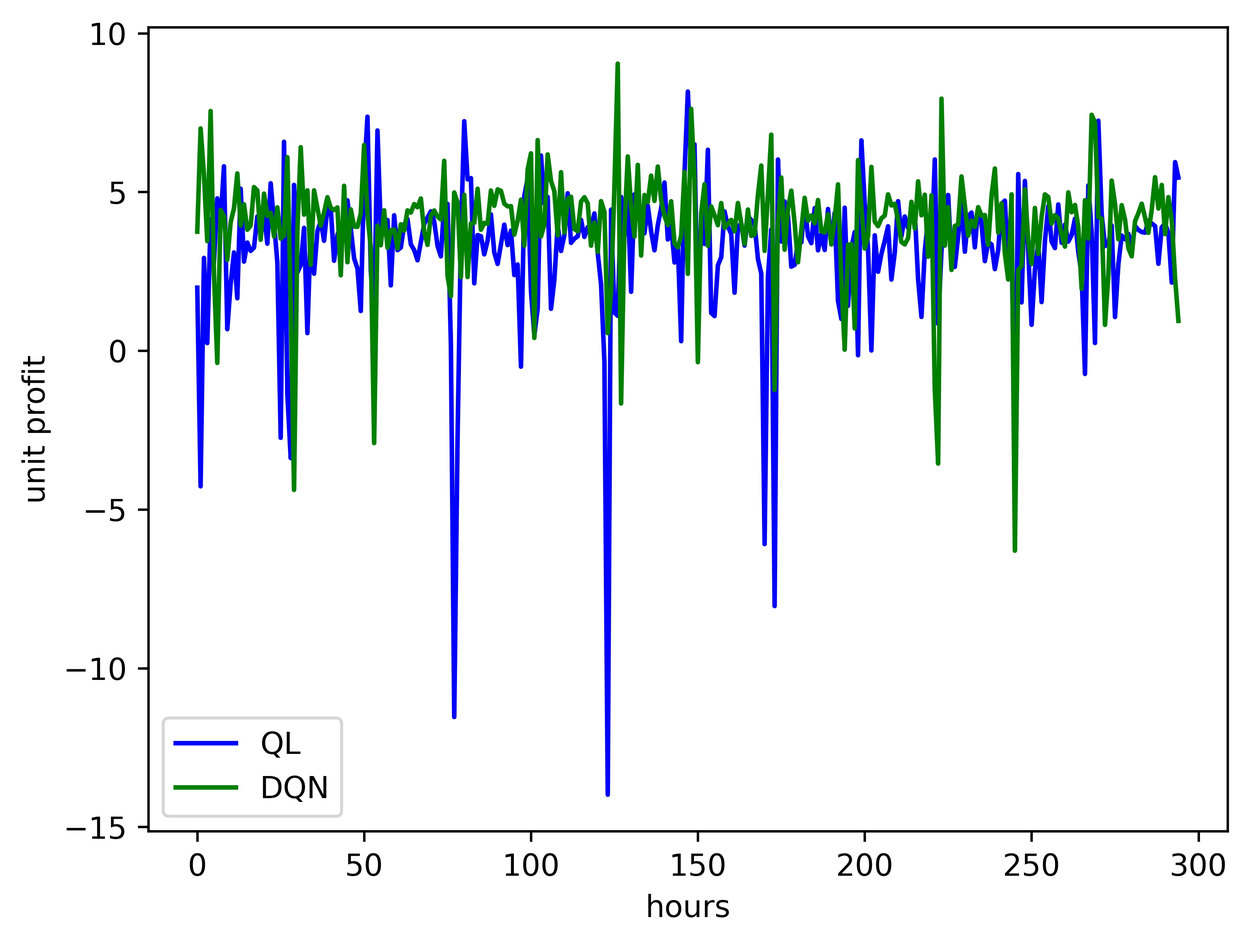
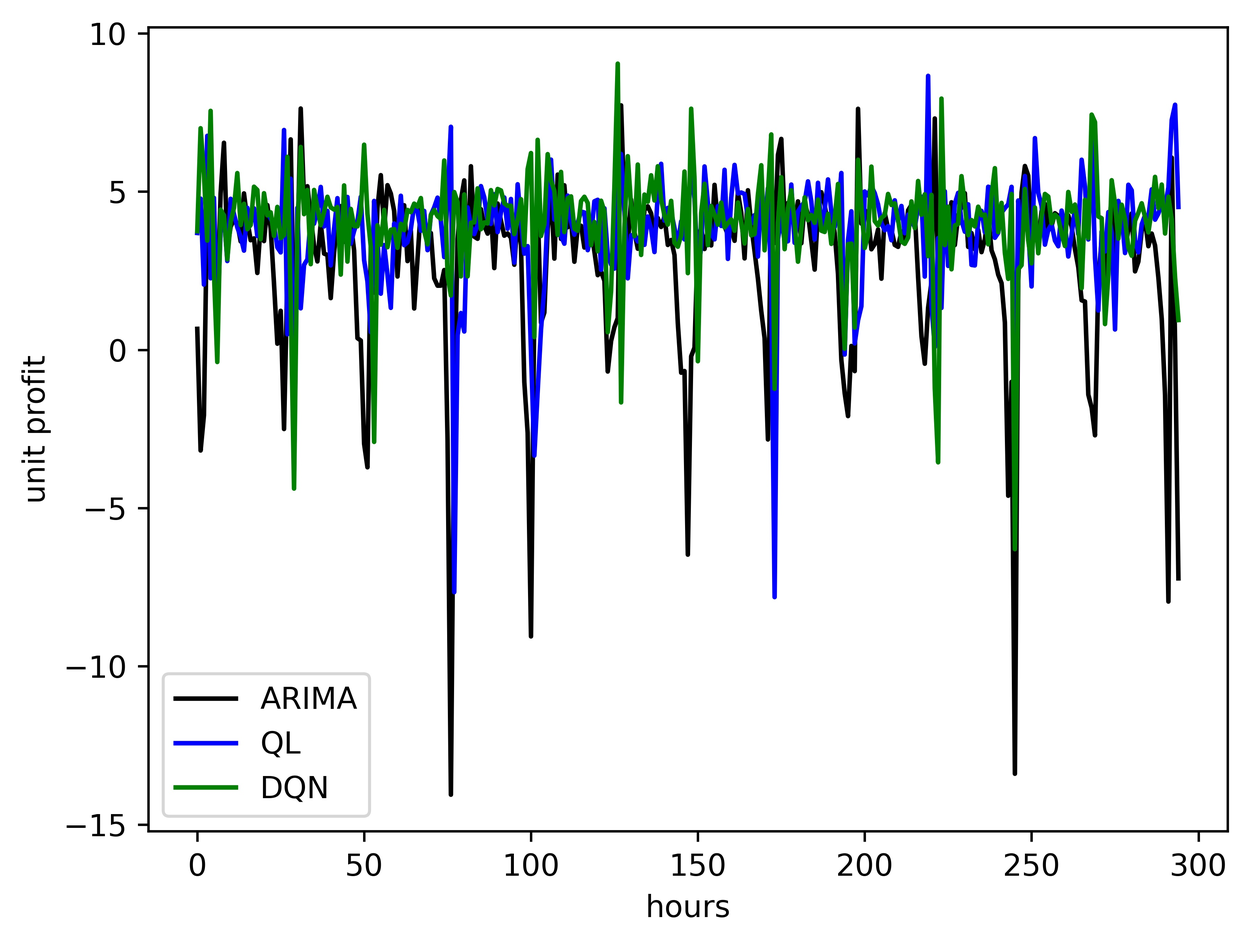
123456

diff --git a/RL.py b/RL.py
@@ -1,4 +1,5 @@
 from keras.layers import Flatten, Dense, Activation
+from statsmodels.tsa.arima_model import ARIMA
 from keras.models import Sequential
 from math import log2
 from time import time
@@ -36,7 +37,8 @@ def cal_profit(users, action):
 		return tasks
 
 	def iterative(tasks):
-		B=0.1+action*0.3
+		#B=0.1+action*0.3
+		B=action
 
 		xi=list()
 		b=[0]*users
@@ -92,8 +94,8 @@ def cal_profit(users, action):
 	revenue=users*QoS*4
 
 	#profit
-	return revenue-zeta*(0.1+action*0.3)/1.3
-
+	#return revenue-zeta*(0.1+action*0.3)/1.3
+	return revenue-zeta*action/1.3
 
 #DRL
 def DQL():
@@ -240,12 +242,13 @@ def QL():
 			if best==0:
 				action=np.random.randint(5)
 
-			for e in range(num):
-				perform+=cal_profit(traffic[i+1], action)/traffic[i+1]/num
-			#profit.append(cal_profit(traffic[i+1], action)/traffic[i+1])
+			#for e in range(num):
+			#	perform+=cal_profit(traffic[i+1], action)/traffic[i+1]/num
+			profit.append(cal_profit(traffic[i+1], action)/traffic[i+1])
 
 		#return sum(profit)
-		return perform/len(traffic)
+		#return perform/len(traffic)
+		return profit
 
 
 	def main():
@@ -254,13 +257,12 @@ def QL():
 
 		x, result=list(), list()
 
-		while episode<1000:
+		while episode<1750:
 			play(episode)
 			#test revenue
 			#if episode%5==0 or episode<30:
 			#	x.append(episode)
 			#	result.append(exam())
-			print(episode)
 			episode+=1
 
 		print(exam())
@@ -276,7 +278,15 @@ def QL():
 
 	main()
 
-#QL()
+history=8
+#def ARIMA():
+'''profit=list()
+model=ARIMA(traffic, order=(history, 0, 0))
+model=model.fit(disp=-1)
+for i in range(history, len(traffic)-1):
+	action=model.predict(start=i, end=i)[0]*2.3/63
+	profit.append(cal_profit(traffic[i+1], action)/traffic[i+1])
+print(sum(profit)/len(traffic))'''
 
 def draw_learning():
 	x=[0, 1, 2, 3, 4, 5, 6, 7, 8, 9, 10, 11, 12, 13, 14, 15, 16, 17, 18, 19, 20, 21, 22, 23, 24, 25, 26, 27, 28, 29, 30, 35, 40, 45, 50, 55, 60, 65, 70, 75, 80, 85, 90, 95, 100, 105, 110, 115, 120, 125, 130, 135, 140, 145, 150, 155, 160, 165, 170, 175, 180, 185, 190, 195, 200, 205, 210, 215, 220, 225, 230, 235, 240, 245, 250, 255, 260, 265, 270, 275, 280, 285, 290, 295, 300, 305, 310, 315, 320, 325, 330, 335, 340, 345, 350, 355, 360, 365, 370, 375, 380, 385, 390, 395, 400, 405, 410, 415, 420, 425, 430, 435, 440, 445, 450, 455, 460, 465, 470, 475, 480, 485, 490, 495]
@@ -292,7 +302,11 @@ def draw_learning():
 
 def draw_realtime():
 	DQN=[3.7478759822441563, 6.999778422507217, 5.548162439677827, 3.450772831470989, 7.5488317592465775, 2.450661125703245, -0.3863408771341715, 4.429300066305992, 4.234993667349308, 2.857718649899319, 4.042397307246467, 4.485683365178893, 5.5824538340356655, 3.9413982558620986, 4.612476052135482, 3.808629377794702, 3.9418445021735207, 5.152369699912471, 5.048862900244765, 3.4934367663833834, 4.94643325708058, 4.245860370984221, 4.341827826413724, 3.59691893555096, 4.5137347565203765, 3.5285468420283195, 3.625267044862583, 6.095240161970809, 1.6017200357227415, -4.3859014673196475, 3.7862745119748826, 6.407278498506036, 4.285250512877829, 5.050090073137498, 2.7048408425661714, 5.049697977416516, 4.489854750696926, 3.9369977120515443, 4.355036970565822, 4.833690796701913, 4.4983580203973625, 4.430491520641624, 4.510155476816935, 2.3753233191324856, 5.192926181639923, 2.786136445443181, 4.450384187825943, 3.91221362367852, 3.8995929168466783, 4.3235640053530755, 6.479685121068593, 4.295667847545808, 3.249328820219601, -2.910642459749989, 3.9345538027172613, 3.321249955489108, 4.42038718121895, 3.241347042110334, 3.7910736625746058, 3.812464191285273, 3.223320286480204, 3.9780449868122947, 3.780329035033368, 4.418209608419128, 4.3498591320525035, 4.617495244036999, 4.51826375459129, 4.793148578684118, 3.7515368738961627, 3.331949038397792, 4.255772859144144, 4.415887661876979, 4.222669660846554, 4.131969791098057, 5.980594866047354, 2.3533060337008194, 1.715872426780643, 4.982597109903891, 4.660089109672918, 2.318595485726718, 4.907495772185207, 2.3197707996273538, 4.013214588157069, 4.0256453828273475, 5.099923302753188, 3.8090732017619744, 4.0235872489837865, 3.992920440994986, 5.043102183245668, 4.563600800556426, 5.080275462971585, 5.034121466383538, 4.629162049478058, 4.547174473000458, 4.551716518934641, 3.65583082140819, 4.088057528254853, 4.757259264116531, 3.3053832560195517, 5.707311943667997, 6.215595767370381, 0.401326608048838, 6.633439788255143, 3.5961717575290923, 3.968696581597918, 6.181203176876082, 5.346647029993962, 5.0201939293551705, 3.628432554957094, 5.620435528444498, 3.720536501884711, 4.7809629627315555, 4.847044882661661, 3.8305623001610134, 3.7619454123048537, 4.697334954383562, 4.834126453222527, 4.6379375833769645, 3.307184604419069, 4.036879826842997, 3.11165896430241, 4.709920764663011, 4.368621979049179, 0.5530487544683057, 1.860008644259064, 5.163339275013443, 9.040734481029512, -1.662368629621893, 3.859264217913603, 6.116590922784574, 4.522713331344776, 3.5916697211667277, 5.852234985246745, 2.9968007750186985, 4.904323573484865, 4.677898830853981, 5.512661937208004, 4.71747391252167, 5.798729905329525, 4.748133703591009, 4.240356650792528, 3.9544789113163694, 4.705277205406545, 3.3794937402683174, 3.2561134005349364, 3.6131496017084523, 5.631157332866755, 2.4211241208036216, 7.616914627854759, 5.3870964037895535, -0.36207261890439274, 4.329514160624111, 5.243372622394055, 3.3050490037962557, 4.543353279418804, 4.263941219069254, 3.9517997002722347, 4.649628238382329, 3.864463964259022, 4.0008250566746115, 4.117515083736796, 3.761149087632751, 4.652229752320354, 4.017389356976402, 3.3584756602797983, 4.44581979447315, 3.6156403157997974, 3.6556641168153345, 4.901528597492634, 5.830741728087105, 3.1435606991601994, 4.943057604630718, 6.804095751832091, -1.2345500484544267, 4.013565971110711, 5.454006494790243, 3.1794620045590034, 4.465553107207978, 5.0387226946736785, 4.0161500379647554, 2.783046497236343, 3.7938108953311485, 4.814837311573457, 4.092334373609864, 4.257886496890198, 4.010950333573636, 4.744399457246074, 3.7631350668057673, 3.7228249401660083, 4.294743680634914, 3.3465365071547497, 4.1406598255759635, 5.238773261051152, 2.231152511870877, 0.03156379387101064, 3.3356137928170155, 3.3529232619991842, 0.7016879079875382, 6.003492711950064, 4.520843366223777, 3.218065663987876, 3.613780700170913, 5.787222461253272, 4.065721701074045, 3.9225184289410406, 4.169881112102135, 4.2556507172934595, 4.923238804887088, 4.574520708391531, 4.626986927060104, 4.1081515587144946, 3.4232420673410897, 3.347245248298188, 3.546107895069789, 4.6877785580807245, 3.8459051420512207, 5.333021638395711, 4.265506557884531, 4.912739177761379, 2.9599986269699223, 4.893981114565075, -1.2204733138671129, -3.556071887496688, 7.9362566616428545, 3.3081444485068787, 4.521747859910561, 2.5430547975756097, 3.92775600417404, 3.9741150836201706, 5.486584871790857, 4.56845509936085, 3.621813825883097, 4.097592050717407, 3.89705245138745, 4.520601481468907, 4.250608767475211, 4.271837109466776, 3.332588912096386, 4.874349497979992, 5.737716172625863, 3.717703911122524, 4.64091602526426, 3.0634567138501008, 2.2407872646977576, 4.922127736209819, -6.300441289125445, 2.5441205224744676, 2.6731157014680993, 5.0805134176228615, 3.456491594536029, 2.730098812390125, 4.495454499708949, 3.049561484063496, 4.2138757770153275, 4.923241490331193, 4.840837359768099, 4.000022661073293, 4.2674928947602355, 4.161272597197545, 3.662885999181402, 3.278283502219493, 4.985675417372251, 4.359614339524986, 4.588843584248583, 3.8939389170964707, 1.9483870438542386, 4.7385295638198315, 3.530844880323647, 7.429914855246058, 7.1936514101665505, 4.211266881739588, 4.156518539455353, 0.812225679253458, 2.3600132534146203, 5.356393201555374, 4.621879063124901, 3.511237189696751, 4.582252461824915, 4.132292373306472, 3.231573970753295, 2.9718966183237896, 4.073068463720519, 4.331297474982888, 4.628596959119474, 4.1964130754946956, 3.7111336765116514, 4.4331708535389, 5.463244791241277, 4.4781359135406005, 5.219519496173422, 3.673815553433905, 4.836600863771065, 4.111871243880408, 2.2786738910728612, 0.9385453111585838]	
-	QL=[1.9846423082175553, -4.27237485045607, 2.9209397192530218, 0.23901061661276835, 4.1451325829369425, 2.7765637641161054, 4.798337551899745, 4.090189864097207, 5.807822548099488, 0.6759193638680775, 2.1043821634375504, 3.0932190092146876, 1.6510325537575061, 5.102269904658911, 2.8055067232155944, 3.4054052185690598, 3.143735373443447, 3.247149118882241, 4.226096022651616, 4.017238888966018, 4.296178034828105, 3.3708720060588555, 5.273153515667265, 4.027383693930478, 2.7837614566657654, -2.7446107403243936, 6.579518603791763, -1.3806712454671106, -3.3828720058958095, 5.222141908579049, 2.4652493842241303, 2.6914858177741547, 3.8684753968453944, 0.5528549222412209, 3.803627145553338, 2.423692660561341, 3.769469611542638, 4.073701216439283, 3.461126422067803, 4.506027498866512, 4.478050180797772, 2.8326448855421766, 3.6449940031379704, 3.9581850670369514, 3.762985403760975, 4.736061667314849, 3.8413356558415175, 2.9057753350598365, 2.5866996886800253, 1.2499932129041051, 5.565612388233219, 7.369553778803575, 2.5108140094327194, 1.038703656551954, 6.935938744449103, 3.8194158326195584, 3.958803839462541, 4.115450116516178, 2.0566638390036105, 4.2654214453016435, 3.1658158537221057, 3.2474682097401684, 3.9689812220597176, 4.1464916679603565, 3.3494793506476155, 3.1687336760152967, 2.84716360516987, 3.417730262539673, 3.98659416447209, 4.195578034750328, 4.389107686285024, 4.070795754615264, 3.298753030123726, 2.9713658204450537, 4.6307812862163, 4.6220653051402465, 0.18909173245141364, -11.538461538461538, -2.7211516651281578, 3.6102493654981997, 7.227642668649931, 5.395297452212589, 5.435519783543233, 2.120737779937237, 3.6411381373343326, 3.6046417743619217, 3.033695453181342, 3.4675997580276947, 4.294482114867898, 3.091581047517478, 2.7321856473337527, 3.35463065705479, 3.96998529400728, 3.3250366010279295, 3.782665884442578, 2.3812246162473536, 2.715134698273742, -0.5032335156402948, 4.879781192121056, 5.420334807646466, 1.873736175277979, 0.48596794095921414, 1.321541456369732, 6.147689993373478, 4.62483675136393, 4.842809610047639, 1.3190706974796138, 2.231398610820271, 3.967844089484881, 3.140391194081461, 3.637371605787492, 4.957636251552693, 3.395932717049569, 3.5265712927380055, 3.60278087297794, 4.121490342243349, 3.582485235563362, 3.890007148342072, 3.850156797507039, 4.322933262285733, 3.0771857197241315, 2.086368970167135, -0.3430798195907305, -13.986347262105646, 4.441400717440498, 1.1990102684883457, 1.0975886533793495, 4.843118213303763, 3.620393827285812, 4.780678162090116, 1.8552851693046484, 4.9233547040886085, 4.427457873878327, 3.932605871486697, 3.6985028036222167, 4.567072357863565, 3.7546516936167404, 3.1622373602269693, 3.957687122000151, 4.491440742115897, 5.295904465731719, 3.5024930071929097, 3.9454816242649473, 2.777311160052111, 3.3381393267690385, 0.29865363575980375, 5.578760904141408, 8.16227894014101, 5.8055679776361755, 6.4982146792594095, 0.7776517808736667, 4.141241472268285, 3.3617560360398655, 6.328651264917097, 1.189177395049883, 1.0893646471133587, 2.6889555130367864, 2.9419620262339423, 4.385893339095923, 3.9168644186050225, 3.6750845262132663, 1.8268105044787286, 3.9090803723173053, 3.9973397044921084, 3.3102942098943333, 4.235416700250735, 4.115820146090492, 3.983713857394626, 2.8922664634863366, 2.428112758337167, -6.091804597446955, 2.327527816602306, 3.821050141462961, -8.043497445491775, 6.020559165076523, 3.4388158636015134, 4.699651963494636, 4.257531993366959, 2.645612278293735, 2.701254092874708, 3.4138622555722358, 3.4099931495912172, 4.635973722413486, 3.6077658489373867, 3.3875084244428075, 4.4868537411303215, 3.160533744259457, 3.6780244954593275, 3.17153055482936, 4.461843909230277, 3.345540638428968, 4.339031853997374, 1.5667766858831325, 0.9993688600946357, 4.503984691715987, 1.414028528739306, 3.2295013096643577, 3.735491097567574, -0.1427763031502618, 6.624229746991752, 4.632692971384544, 3.201450947152131, 0.005839157962333574, 3.6340607116814083, 2.4856504023472508, 3.04783486056972, 3.462359373367896, 3.917776295847741, 2.2393489097618207, 3.084429132583318, 4.708593101642423, 3.6029248324441987, 4.226228075189739, 3.8608012682916266, 4.437138105588301, 4.363807502210131, 2.2412762662385934, 1.0625313169139143, 3.143170054679733, 4.148187313765309, 3.025801208373627, 6.022776069331241, 0.8456608587462968, 3.141077444894021, 4.39535799846123, 4.904043197734897, 2.8346838156858887, 2.638587660053638, 3.603814792026173, 4.633039314918679, 3.1164170486502307, 4.227697574006318, 4.352125038177154, 3.254253575641225, 4.500571287230966, 3.9990630044196207, 2.8206014936012265, 3.4195771293178168, 3.3471328067020862, 2.5691818106040527, 3.1693073749519294, 4.618808983847609, 4.725987499404324, 2.68523540540744, 3.4478273367245396, -3.0183668059005875, 5.5623116752228805, 1.5213650117666788, 5.345995803953071, 3.127538466589826, 0.8139471310214063, 2.564261566900099, 3.3765414761938684, 1.5313594524888081, 3.449265399273671, 4.554824513795961, 3.4337334344651325, 3.2322056770636793, 4.605693829964453, 3.3974202928937176, 3.973391255672196, 3.434421411132245, 3.639430008452427, 4.15750267082944, 3.1077726562487142, 2.400827869774789, -0.7326270622715353, 5.204269624976112, 3.738915759037023, 0.2409015381972579, 7.244433927123384, 4.290468882411006, 3.2952828138843753, 3.3542945293356885, 3.9434884386940294, 1.0594253696940514, 2.7221155368298047, 3.62697424291608, 3.5088170390302365, 3.6809515860900617, 3.2362724652676556, 3.930188816749988, 3.804140076296032, 3.737576317872371, 3.7148095008652464, 4.094688855853939, 4.007877461456417, 3.926017629756201, 2.7368941225049106, 3.8827943355135774, 4.011810948390153, 3.7020681406046383, 2.144860540794735, 5.938800877464975, 5.452269005658477]
+	#QL=[1.9846423082175553, -4.27237485045607, 2.9209397192530218, 0.23901061661276835, 4.1451325829369425, 2.7765637641161054, 4.798337551899745, 4.090189864097207, 5.807822548099488, 0.6759193638680775, 2.1043821634375504, 3.0932190092146876, 1.6510325537575061, 5.102269904658911, 2.8055067232155944, 3.4054052185690598, 3.143735373443447, 3.247149118882241, 4.226096022651616, 4.017238888966018, 4.296178034828105, 3.3708720060588555, 5.273153515667265, 4.027383693930478, 2.7837614566657654, -2.7446107403243936, 6.579518603791763, -1.3806712454671106, -3.3828720058958095, 5.222141908579049, 2.4652493842241303, 2.6914858177741547, 3.8684753968453944, 0.5528549222412209, 3.803627145553338, 2.423692660561341, 3.769469611542638, 4.073701216439283, 3.461126422067803, 4.506027498866512, 4.478050180797772, 2.8326448855421766, 3.6449940031379704, 3.9581850670369514, 3.762985403760975, 4.736061667314849, 3.8413356558415175, 2.9057753350598365, 2.5866996886800253, 1.2499932129041051, 5.565612388233219, 7.369553778803575, 2.5108140094327194, 1.038703656551954, 6.935938744449103, 3.8194158326195584, 3.958803839462541, 4.115450116516178, 2.0566638390036105, 4.2654214453016435, 3.1658158537221057, 3.2474682097401684, 3.9689812220597176, 4.1464916679603565, 3.3494793506476155, 3.1687336760152967, 2.84716360516987, 3.417730262539673, 3.98659416447209, 4.195578034750328, 4.389107686285024, 4.070795754615264, 3.298753030123726, 2.9713658204450537, 4.6307812862163, 4.6220653051402465, 0.18909173245141364, -11.538461538461538, -2.7211516651281578, 3.6102493654981997, 7.227642668649931, 5.395297452212589, 5.435519783543233, 2.120737779937237, 3.6411381373343326, 3.6046417743619217, 3.033695453181342, 3.4675997580276947, 4.294482114867898, 3.091581047517478, 2.7321856473337527, 3.35463065705479, 3.96998529400728, 3.3250366010279295, 3.782665884442578, 2.3812246162473536, 2.715134698273742, -0.5032335156402948, 4.879781192121056, 5.420334807646466, 1.873736175277979, 0.48596794095921414, 1.321541456369732, 6.147689993373478, 4.62483675136393, 4.842809610047639, 1.3190706974796138, 2.231398610820271, 3.967844089484881, 3.140391194081461, 3.637371605787492, 4.957636251552693, 3.395932717049569, 3.5265712927380055, 3.60278087297794, 4.121490342243349, 3.582485235563362, 3.890007148342072, 3.850156797507039, 4.322933262285733, 3.0771857197241315, 2.086368970167135, -0.3430798195907305, -13.986347262105646, 4.441400717440498, 1.1990102684883457, 1.0975886533793495, 4.843118213303763, 3.620393827285812, 4.780678162090116, 1.8552851693046484, 4.9233547040886085, 4.427457873878327, 3.932605871486697, 3.6985028036222167, 4.567072357863565, 3.7546516936167404, 3.1622373602269693, 3.957687122000151, 4.491440742115897, 5.295904465731719, 3.5024930071929097, 3.9454816242649473, 2.777311160052111, 3.3381393267690385, 0.29865363575980375, 5.578760904141408, 8.16227894014101, 5.8055679776361755, 6.4982146792594095, 0.7776517808736667, 4.141241472268285, 3.3617560360398655, 6.328651264917097, 1.189177395049883, 1.0893646471133587, 2.6889555130367864, 2.9419620262339423, 4.385893339095923, 3.9168644186050225, 3.6750845262132663, 1.8268105044787286, 3.9090803723173053, 3.9973397044921084, 3.3102942098943333, 4.235416700250735, 4.115820146090492, 3.983713857394626, 2.8922664634863366, 2.428112758337167, -6.091804597446955, 2.327527816602306, 3.821050141462961, -8.043497445491775, 6.020559165076523, 3.4388158636015134, 4.699651963494636, 4.257531993366959, 2.645612278293735, 2.701254092874708, 3.4138622555722358, 3.4099931495912172, 4.635973722413486, 3.6077658489373867, 3.3875084244428075, 4.4868537411303215, 3.160533744259457, 3.6780244954593275, 3.17153055482936, 4.461843909230277, 3.345540638428968, 4.339031853997374, 1.5667766858831325, 0.9993688600946357, 4.503984691715987, 1.414028528739306, 3.2295013096643577, 3.735491097567574, -0.1427763031502618, 6.624229746991752, 4.632692971384544, 3.201450947152131, 0.005839157962333574, 3.6340607116814083, 2.4856504023472508, 3.04783486056972, 3.462359373367896, 3.917776295847741, 2.2393489097618207, 3.084429132583318, 4.708593101642423, 3.6029248324441987, 4.226228075189739, 3.8608012682916266, 4.437138105588301, 4.363807502210131, 2.2412762662385934, 1.0625313169139143, 3.143170054679733, 4.148187313765309, 3.025801208373627, 6.022776069331241, 0.8456608587462968, 3.141077444894021, 4.39535799846123, 4.904043197734897, 2.8346838156858887, 2.638587660053638, 3.603814792026173, 4.633039314918679, 3.1164170486502307, 4.227697574006318, 4.352125038177154, 3.254253575641225, 4.500571287230966, 3.9990630044196207, 2.8206014936012265, 3.4195771293178168, 3.3471328067020862, 2.5691818106040527, 3.1693073749519294, 4.618808983847609, 4.725987499404324, 2.68523540540744, 3.4478273367245396, -3.0183668059005875, 5.5623116752228805, 1.5213650117666788, 5.345995803953071, 3.127538466589826, 0.8139471310214063, 2.564261566900099, 3.3765414761938684, 1.5313594524888081, 3.449265399273671, 4.554824513795961, 3.4337334344651325, 3.2322056770636793, 4.605693829964453, 3.3974202928937176, 3.973391255672196, 3.434421411132245, 3.639430008452427, 4.15750267082944, 3.1077726562487142, 2.400827869774789, -0.7326270622715353, 5.204269624976112, 3.738915759037023, 0.2409015381972579, 7.244433927123384, 4.290468882411006, 3.2952828138843753, 3.3542945293356885, 3.9434884386940294, 1.0594253696940514, 2.7221155368298047, 3.62697424291608, 3.5088170390302365, 3.6809515860900617, 3.2362724652676556, 3.930188816749988, 3.804140076296032, 3.737576317872371, 3.7148095008652464, 4.094688855853939, 4.007877461456417, 3.926017629756201, 2.7368941225049106, 3.8827943355135774, 4.011810948390153, 3.7020681406046383, 2.144860540794735, 5.938800877464975, 5.452269005658477]
+	QL=[3.6900319530886763, 4.775709262603278, 2.058955287124627, 6.759817738205567, 2.2590018325061214, 4.799927498995722, 0.895024972382919, 3.7655176614372214, 4.258441158828534, 2.8036651914957114, 4.769085214174146, 4.286231801189038, 3.868380704689897, 3.5737114444478344, 3.1329719057347782, 4.484344007899755, 3.9856236727964354, 4.468709039941571, 3.5953856967460904, 4.254287987397485, 4.432482182339793, 4.334961260820689, 4.138297098185323, 3.940146574402139, 3.2353319159945233, 3.077414031483899, 6.94367917553574, 0.48931318043456384, 5.403376991546247, -3.82060262140683, 4.48509902994956, 1.3091242214847074, 2.6823178748509524, 2.8579632623628233, 4.1735370152002655, 3.984745291765248, 4.40261729174056, 5.144888576962592, 3.8971383638415706, 4.3879182656449744, 2.6664972086047114, 3.822873913194624, 4.790071697042243, 3.043907103011408, 4.75846395976542, 4.827056420262647, 3.354930090967629, 3.755264411634561, 4.0613563889177655, 4.831264473881276, 2.8282992710216917, 2.1582383713795794, 0.55595709312172, 4.703659852541684, 3.476680205000829, 1.7723943821949162, 3.307917227651077, 2.363108450094918, 1.324325574081993, 3.9891061604235953, 3.545107441311263, 4.866135797103568, 3.3052751816557917, 3.3988993209374807, 3.8162094442012444, 4.563650785691802, 4.372787011041946, 3.760367841827433, 4.3862604251569195, 3.1477594278303176, 4.2626974064003935, 4.500773412685558, 4.8062158091447795, 4.067502778915313, 2.9294248493361468, 4.740097481640375, 7.045715931881706, -7.65897634932492, 0.459631612463518, 1.1600443011853687, 0.5773902694342595, 4.49915046090072, 3.9074814139484326, 3.6554840192168623, 3.9444985381146944, 5.171411343475884, 4.815610933779974, 4.111041691116649, 3.9772249620126003, 4.912955225116587, 3.7185256128827398, 4.342992998270896, 4.811735859696107, 3.82334934718592, 4.764304133166892, 2.753559239763209, 5.229271835753344, 4.02122437029867, 3.037506337556849, 3.2742033155535695, -0.06678170112619597, -3.3433595688292805, -1.3085351360416784, 0.6376295612593191, 1.9554600072751647, 4.364958478130024, 6.007535916316205, 4.114065248243412, 4.62659292498466, 3.5956983968834124, 3.3515743678480536, 4.87046647388706, 4.04910233814043, 3.6372196610604814, 4.013164011843601, 4.36544801492567, 4.337783810887455, 3.1478241084383316, 3.6169825762645758, 4.69112293643836, 4.738194544781986, 2.528252825039516, 4.470111373399105, 3.004764143585534, 2.6923200684817297, 2.5647372773979424, 4.758401512047461, 6.186526198954894, 4.371474073090109, 2.2567546577621136, 3.619333514218427, 3.602053626955189, 3.4231768720511906, 3.663532890964575, 3.3152193327545123, 4.210129914879337, 3.8162997588416143, 3.088482233734242, 4.9613163299864285, 5.875360422250397, 4.081465073837477, 4.48196585298317, 4.364814809070934, 3.843215456479595, 3.3395633195981635, 4.058309683216895, 3.486448639226147, 4.490361253746815, 5.601926952224347, 4.7640293758673575, 2.4763540599372345, 3.233388914280235, 5.792326810874242, 4.644024672223066, 3.656470707613693, 3.4884328627036614, 4.539901488947464, 3.9128799762071402, 5.68611543862824, 2.8708953601222196, 4.8052751294043485, 5.840668266371718, 4.938301802534939, 4.968435559631372, 4.923019408293614, 4.14949670943622, 3.9931059058231373, 4.255245014789371, 2.944892010526588, 5.035912630393835, 3.9471398087609217, 5.106366552113263, 1.9195944481102956, -7.81465543233861, 3.4944275460186875, 4.224433949017424, 3.4086897979917405, 3.430529882759064, 5.220607762127849, 3.379570836009364, 4.3673208139256925, 4.539889419620695, 4.671560770415783, 5.321050967400438, 4.68512525894376, 3.483990402006793, 5.276035925333903, 3.8663832071284983, 4.412758488163405, 5.382195330581693, 4.342019848983269, 3.8780272160119487, 4.381512667646557, 5.5854356163260945, -0.14989752723189062, 3.4627374966832876, 4.375565932591492, 0.20170827124888646, 0.9330343391224473, 1.375651905605009, 5.001999835098432, 4.875654141675295, 5.171765720203316, 4.948944767074587, 4.590596665512673, 4.00102002846041, 3.7753241517702456, 3.9070111091716306, 3.4610411978441618, 4.721934277315938, 4.0548995180412915, 4.543628416821062, 3.683626388414429, 4.268209336816416, 4.088542077818489, 3.864674741037309, 4.517383685638777, 4.837153867732049, 2.3128547012637073, 8.654913712963614, 1.3849401064651403, 0.08512901290392616, 3.528771778124537, 1.3227973947536407, 5.00878562179303, 2.649108047469823, 3.1120369223550473, 4.612813122331579, 4.958101021844854, 4.083146862738007, 3.73005492396857, 4.596205354186765, 2.6813625329089414, 2.6650670755256747, 4.07874366402635, 4.387771595825264, 3.7142524567779285, 5.151395519950916, 5.1098280619165655, 3.5385616194997063, 3.6961624362486165, 4.3313333537390895, 4.475003650150117, 4.599155194571802, 5.1476694394559654, -2.85167305885993, 4.71707614892349, 3.2837995782650995, 5.489647387710449, 3.792716041286879, 2.0011558461466166, 6.686819882334086, 4.963381978988917, 4.544985444777433, 3.3215193535884397, 3.7913226072748007, 3.969392862294063, 3.4520157448052537, 3.271973301914269, 4.397761039665717, 3.9465059365958215, 2.947706063292195, 3.636313409752578, 4.4902027814924645, 3.651928028792224, 6.004531825893255, 5.157473805042618, 3.485377620445199, 6.749082792297, 2.9140378843624544, 1.239654589863198, 3.74191344926499, 3.1063875576377282, 4.349368287505761, 3.6923849175076993, 0.6413413576331001, 4.703558065812736, 4.244156753614123, 3.0563679548911966, 5.214048319055698, 5.037089368232961, 3.455099882476514, 3.0765623539844285, 3.9607432202970867, 4.254462020811061, 4.194693892920255, 5.067161775409003, 4.110567926515908, 4.307667109636327, 4.635205662225223, 4.5065391868468945, 5.129322694976365, 7.260308011846801, 7.741523645488411, 4.513482284999546]
+	#ARIMA=[3.0780605229668425, -0.5303134587432226, 2.466255296373454, -2.471058108911091, -3.112568427462428, 4.701425733608675, 5.27253428613857, 1.4141797721471394, 2.70075673496934, 3.087215915791549, 5.183081536908989, 5.101293902892656, 5.079291618686559, 4.388334777976758, 4.922616501545924, 3.832333128001157, 4.720820942750982, 5.334042020493475, 5.100782893570377, 4.722492256406562, 5.058749361777453, 4.606130901071323, 3.8117735997707403, 4.110461755644198, 3.282328719954748, 0.5948122495084375, 2.9289294320290926, 4.587302400205949, 1.1142490305738857, 1.496791231230631, 6.155822724975127, 4.310134331930469, 3.764431840613485, 4.721388595427134, 3.6103499689073955, 5.411946826607154, 4.200632309906024, 4.7576317799346475, 4.63091322318384, 3.9062037317063996, 3.3440482549386776, 3.828444044544149, 3.8947521501077182, 4.230836876580252, 3.768079076596741, 3.854903331844033, 3.8849690049475654, 4.046260335851347, 3.885184840951142, 4.302227257894636, 3.248529384283128, 2.9268580457321094, 6.9104442805419835, 1.9781880088884254, 6.613708045363862, 5.219412970550757, 3.945888791702092, 4.621948558917729, 4.233689147604811, 3.7317796407123045, 3.4154368190894293, 4.156031865632368, 4.7686224105669295, 4.196765856971487, 4.019953126672621, 2.3680607236478126, 4.188622949670833, 4.436965106356037, 3.6488688836654988, 4.404129406146591, 4.355952890959111, 5.51354123958607, 3.3729386140324986, 4.438395403625288, 3.364574443440092, 2.1569683253377256, -10.932880430646929, 3.6106648785679454, -2.0270432516052024, 4.621440095643379, 4.156436488158432, 4.966914230389838, 6.289172197658541, 4.542212478498691, 4.229737507740704, 5.484266578312949, 5.16309158147998, 3.478351602688777, 3.3950495455582455, 3.2900617029884662, 2.914197256772947, 4.608783658085067, 4.310418108034393, 3.805379545323813, 4.953261620644093, 3.0955285538980926, 3.5147665497037206, 3.977162992813047, 2.5355844319490655, 0.5057352608525912, -1.1926845695772765, -2.27232593967904, 2.4651530552074776, 6.632375059560154, 4.866661981493122, 4.178580686099089, 5.096609845855596, 4.598847491910915, 4.889706877978089, 4.1740961338798, 3.799809408523325, 4.516524694705819, 3.4805587670870053, 2.6589163267315823, 3.4385081908030934, 4.51687821061025, 5.014205803588022, 4.4838910207628855, 4.923033988535244, 5.2386933721418165, 1.8074748576008415, 3.461984419128297, 2.351272053166028, 0.8998621318210915, 0.111238005634414, 0.008134251093452486, 2.8247993671608693, 3.7353046434223693, 3.784892018162128, 5.038519682475729, 4.35266046501148, 4.48187766802383, 5.4113621515073795, 4.510031434300863, 4.065509338969395, 4.140094085615276, 4.738956678993224, 3.110743026108106, 3.891949717164124, 4.677163950060046, 4.111716665361636, 4.040828737338007, 4.231731901844155, 3.7504720394411466, 2.1138356634901743, 2.795758181732114, 2.744905280841874, 5.438286733515582, 6.200948507924477, 0.15531272030873725, 4.006933532009627, 3.0329303367974316, 3.7145469138858607, 3.986519191298356, 4.292582509836921, 3.77081428785058, 5.016616598720448, 4.822813597210832, 4.06363806999053, 5.759552951789282, 5.6944862417509405, 4.158214549176086, 3.049230115687307, 4.527761355033774, 4.756135045274588, 4.318928648806192, 4.0358176322624235, 3.96567695312187, 3.2198477939314216, 3.1595345472398604, 1.7772530394079737, 3.331427571498504, -3.2884078923810316, -5.236095779821723, 3.5757062699178923, 1.762301004207427, 4.768985374478113, 4.960986524717109, 5.273510885917999, 4.7290612339512945, 4.458528470238419, 4.506309294316703, 4.302779478130802, 4.5563332485140275, 4.380088497252528, 2.969337490831628, 4.185246986080743, 5.586393270199905, 4.055315428146908, 3.940219170231372, 4.76075193004828, 4.444508506469673, 3.0184517477407287, 3.5894884818204127, 3.0986136169054554, 3.792537709735201, 2.6883595577484707, 3.5051028044043044, -1.9718543899337568, 4.711114365526453, 4.5441900474857215, 3.609171411669574, 2.6794033498404164, 3.805344968140446, 4.767783347997066, 4.081841778671131, 5.062852783812039, 5.109531803373695, 5.023177520791225, 3.204740874819913, 4.279933421061649, 3.5138418608372715, 3.5640606144394247, 3.2009347092789544, 5.139797425705294, 3.802348030088046, 3.9429729608245183, 3.6364163153379714, 2.7537047544553803, -0.002428238876799327, 2.3511903420712414, -0.015904022023868425, -0.18915950805309045, 3.66475355226342, 3.7351068244166017, 4.004048826151337, 4.172171924567151, 5.034249713464766, 4.1030460960914565, 3.5683277616630265, 4.0663795153896505, 4.229040567169432, 4.277673608551396, 3.232217043874894, 3.915901069468405, 4.8397899105854885, 4.110318206568811, 3.9025761072020226, 4.073450345558615, 4.509723362899569, 2.795625863484589, 4.114627986919152, 2.4438171010444543, -1.362273497925608, 4.3490556252870824, 0.23973165614279068, 7.207764375348671, 2.302055779919377, 3.034014207997179, 4.832026896936486, 4.467399634273631, 5.039075855719546, 5.4125928857379355, 3.438971346631522, 5.043747497580098, 4.059814913626175, 3.8498092795925927, 2.968367751014127, 3.3337927383129604, 3.849466180353367, 3.72078853780801, 3.596775845455461, 4.6011019766897, 4.067524122357411, 3.406594399836679, 4.434747989089952, 4.310564759410186, 2.8204262651191225, -1.5608359978963733, 3.5635588330649224, 1.2296047409899138, 5.793997508721791, 4.438235205630643, 6.456487476944529, 4.124127723305938, 3.6999463264988504, 4.398097471782248, 5.595602653849407, 3.6094481334060466, 4.503135415400829, 3.6144166781233977, 2.904373851303207, 4.927537476289087, 4.968347598962499, 3.763145945482302, 3.2674507309158263, 4.761702824953071, 4.119182613063824, 2.913785189012855, 2.3858572598987102, -0.1519954832157339, -4.552596642076753, 3.5458359681763807, 4.055128153990398, -3.5263964458964354]
+	ARIMA=[0.6610388389349553, -3.18290980761241, -2.065267060567571, 4.975306007402995, 4.495786950743253, 4.119521118984825, 1.4528451376485012, 4.9423798625731195, 6.54095262288449, 3.195042499696752, 3.8883270500624016, 4.11816586353287, 3.993225026465857, 3.423961894976453, 4.941064723637692, 4.090074068458416, 3.4610766039498007, 3.5192774592551475, 2.427118232756055, 3.954603411117278, 3.4337770374782237, 4.571813704181799, 3.8365731056056513, 2.0826406988968413, 0.19177050084873315, 1.2307989180150258, -2.503861598385297, 2.354858686398692, 6.6474790211253385, 0.45891294101646807, 3.1923349242468766, 7.622917293730248, 4.72087803035359, 5.167627923249424, 4.21436208667838, 3.280361619465284, 2.791271772627605, 3.995535527155988, 3.0386501066192992, 2.996274409886819, 1.6322343930021803, 3.0807840848285766, 4.0764069657837645, 4.537665074719713, 3.4418575058750123, 3.3545618128934356, 4.019054194956686, 3.1372215926341855, 0.3677707187684909, 0.2924650325946465, -2.9720698107620698, -3.7129594828960295, 3.2560423037562054, 1.8066148159042, 4.479999017697762, 5.517516919618558, 3.8111762612346527, 5.201141265879393, 4.935987013312639, 4.383755997626178, 2.314631341118922, 3.9395982004473167, 4.56577724137751, 2.8010704582301433, 3.7619496019462857, 1.3046510610630102, 2.882750775776203, 4.483517943700383, 4.108465116165731, 3.3056155342527322, 3.688559456183431, 2.2577238167876845, 2.0247995192946826, 2.0277031190086903, 2.519031722494316, -2.855466034275679, -14.05879320816462, -1.686922278446719, 3.4996854137826405, 4.736456241683088, 5.3521344008672065, 2.3573547919944735, 5.798860100737873, 3.5751659081988576, 3.507192128278196, 4.442649488332907, 3.9178849055865728, 3.669432790762621, 4.361874716599207, 2.581043449754202, 4.620368997336861, 4.0777831411678465, 3.604784732146061, 3.6762379001865364, 3.540055662063012, 2.6866276212731375, 4.193990957685084, 3.3028607106421055, -1.019957299336921, -2.6281641469826127, -9.056799092716087, 1.432233763444282, 4.575746128106285, 0.8563466063699643, 1.175704862495478, 3.8124730653867798, 5.03213480856872, 2.880021063897514, 5.535718690481163, 3.502788107633903, 5.19658082417514, 3.8717894991708146, 4.132651947975504, 2.78160619690792, 3.862074279989697, 3.9186695717537856, 3.2304258276585838, 3.7798003825234954, 3.7920063428472877, 3.104336331735376, 2.3578502892046607, 2.472377115363483, 2.1801281169746014, -0.6868780323030504, 0.2767548868785079, 0.7157728867020529, 1.002005227250553, 7.723031168278816, 4.4184864497688645, 3.308770163572067, 4.74759371264799, 3.719303322604447, 3.192278558635963, 3.228269528014556, 4.416772852546608, 4.53251716704804, 4.306081039795362, 3.6303566390547344, 4.162599501932976, 3.8803032927877843, 4.213885404579707, 3.312085580141757, 3.4682560136249214, 2.9948470060705183, 0.8336214079174122, -0.7248397469503747, -0.6718365694979079, -6.473726948366437, -0.2047324112157396, 0.06920006030961252, 3.511640281780197, 3.8577771592403995, 3.1841993539359836, 3.779268715010906, 3.297309326118768, 5.211334237989174, 3.983838406846038, 3.9885624293444404, 3.9056243866061573, 3.626168079342595, 3.837470452942706, 3.443043621499873, 4.9686320261346175, 4.331057209227177, 2.8870080229947903, 5.040105830789436, 3.929875816773124, 3.1038790414972577, 2.2461359156769447, 1.22008353393515, 0.3641311627764239, -2.8341999362573334, 5.210758032586685, 3.373227171880302, 6.1572923944093665, 6.662082131076448, 4.131256534466125, 4.639390805389736, 4.315618052295707, 3.9616471944965355, 4.689537590527494, 3.3652203907975338, 4.606902331529322, 4.296558236752774, 3.4315789650969015, 2.5328308172795655, 4.377711817407924, 4.977504473873359, 4.575918345390846, 3.9297304279111858, 4.365511795894399, 3.692054800464448, 2.391632245768177, -0.3237641302990923, -1.3728693466536015, -2.095734934262532, 0.12012655800735228, -0.6749913273727244, 7.614414161156806, 3.986352229513645, 4.419841163444183, 4.215812821809766, 3.1750667673831443, 3.340353906049101, 3.8000662326703494, 2.2458330352498757, 4.318286956906892, 3.843532720943869, 3.793362581028296, 3.3124501635069072, 3.251664627318838, 3.7387907280547026, 3.4821723903829493, 4.407785719880603, 4.577418302468237, 4.3487394969055355, 2.293314123902418, 0.43261240344832785, -0.4409407268005613, 1.3278961300584673, 2.1398110102526586, 7.308055341251877, 2.1096949421505684, 5.264830646082998, 4.1882267956135655, 3.84367800402062, 4.660481469876277, 3.3089366610929645, 4.251652491246595, 4.512936094554114, 4.947480906538135, 3.25136489574769, 3.687885352824, 3.173041648253499, 3.787580731682696, 3.0851736776431986, 3.4908672133793504, 4.294886093453144, 3.143195994243251, 2.8570263718729683, 2.3728303822844063, 2.107073778845143, 0.8620240715526902, -4.612787323780074, -1.0145387996056812, -13.397161402955792, 2.1693327914899667, 4.96974682240745, 5.806889737271878, 5.503827043668822, 3.4379696357551834, 4.149784093007825, 3.4711430428228613, 4.381525750266958, 4.607351067690533, 3.7727688467067955, 3.915272047777017, 4.31490533725118, 4.231603095668144, 3.707727021094821, 4.011837782450765, 4.244148866993828, 3.888235352867197, 3.181827578196691, 2.6068741840993384, 1.5621032998321691, 1.5244510050119293, -1.4181045289549432, -1.8303639125701152, -2.7027650220603405, 2.2141015618877646, 3.4828743716168518, 2.0571206488251383, 3.778160639443148, 4.751558553457791, 2.4801672045895913, 4.095889202365985, 4.4572639064014155, 3.1866064835110186, 3.793121176394976, 4.308278549996827, 2.4775649659787184, 2.7875579084618773, 3.7597017522346454, 4.09199700126826, 3.2719241680590994, 3.6715713854481424, 3.2945199869687594, 2.2756758870640237, 0.9735482728744103, -1.4400803867917176, -7.956044746036151, 6.071440019415945, 0.23480777321886723, -7.223271211974792]
+	plt.plot(ARIMA,"k-",label='ARIMA')
 	plt.plot(QL,"b-",label='QL')
 	plt.plot(DQN,"g-",label='DQN')
 	plt.xlabel("hours")
@@ -306,15 +320,19 @@ def draw_steps():
 	DQN=[2.8, 3.0036505, 3.61662, 3.8769, 4.046, 4.067745]
 	#QL=[2.814, 2.927, 2.9881, 3.1456, 3.1844, 3.3481]
 	QL2=[2.8, 2.87, 3.0222, 3.18247, 3.24815, 3.422]
+	ARIMA=[2.5692438531626665, 2.624306781601123, 2.7147372768033096, 2.7623835599157553, 2.611871248621727, 2.57921944068807]
 	plt.plot(x,QL2,"b*-",label='QL')
 	plt.plot(x,DQN,"go-",label='DQN')
+	plt.plot(x,ARIMA,"ks-",label='ARIMA')
 	plt.xlabel("window size")
 	plt.ylabel("unit profit")
 	plt.legend()
 	plt.savefig('steps.jpg', dpi=600, bbox_inches='tight')
 	plt.show()
 
-draw_steps()
+#draw_realtime()
+#draw_steps()
 
 #4/8: QL, DQL done, traffic range 2~50, for 0.3, revenue=0.6~15*5, for 1.3, revenue=1~25*5
 #4/9: 跑圖完成
+#4/23:新增ARIMA

diff --git a/traffic.py b/traffic.py
@@ -58,8 +58,16 @@ with open("train.dat") as f:
 train_y.pop(0)
 train_x.pop()
 print(len(train_x),len(train_y))
+model = ARIMA(train_y, order=(5, 0, 1))
+model = model.fit(disp=-1)
+#print()
 
-DNN = Sequential()
+plt.plot(train_y, label='real')
+plt.plot(model.predict(start=1, end=len(train_y)), label='fuck')
+plt.legend()
+plt.show()
+
+'''DNN = Sequential()
 DNN.add(Dense(32, input_shape=(10,)) )
 DNN.add(Dense(32, activation="relu"))
 DNN.add(Dense(1))
@@ -98,15 +106,12 @@ RL_p=DNN.predict( np.array(train_x))
 RL=list()
 
 for i in range(len(RL_p)):
-	RL.append(y[i]*0.3-RL_p[i]*zeta/2000)
+	RL.append(y[i]*0.3-RL_p[i]*zeta/2000)'''
 
 '''plt.plot(y[:48], label='DNN')
 plt.plot(train_y[:48], label='real')
 plt.plot(fit3[10:58], label='ARIMA')'''
-plt.plot(RL, label='DNN')
-plt.plot(y, label='real')
-plt.legend()
-plt.show()
+#plt.plot(L, label='DNN')
 
 '''
 for i in range(len(train_x)):

diff --git a/UCD.py b/UCD.py
@@ -540,11 +540,11 @@ def draw_alpha():
 		B+=0.3
 		print(B)
 
-	plt.plot(x,result[4],"go-",label='α=1.0')
-	plt.plot(x,result[3],"b*-",label='α=0.8')
-	plt.plot(x,result[2],"ks-",label='α=0.6')
-	plt.plot(x,result[1],"yD-",label='α=0.4')
-	plt.plot(x,result[0],"rp-",label='α=0.2')
+	plt.plot(x,result[4],"go-",label='β=1.0')
+	plt.plot(x,result[3],"b*-",label='β=0.8')
+	plt.plot(x,result[2],"ks-",label='β=0.6')
+	plt.plot(x,result[1],"yD-",label='β=0.4')
+	plt.plot(x,result[0],"rp-",label='β=0.2')
 	plt.xlabel("Number of users")
 	plt.ylabel("QoS")
 	plt.legend()
